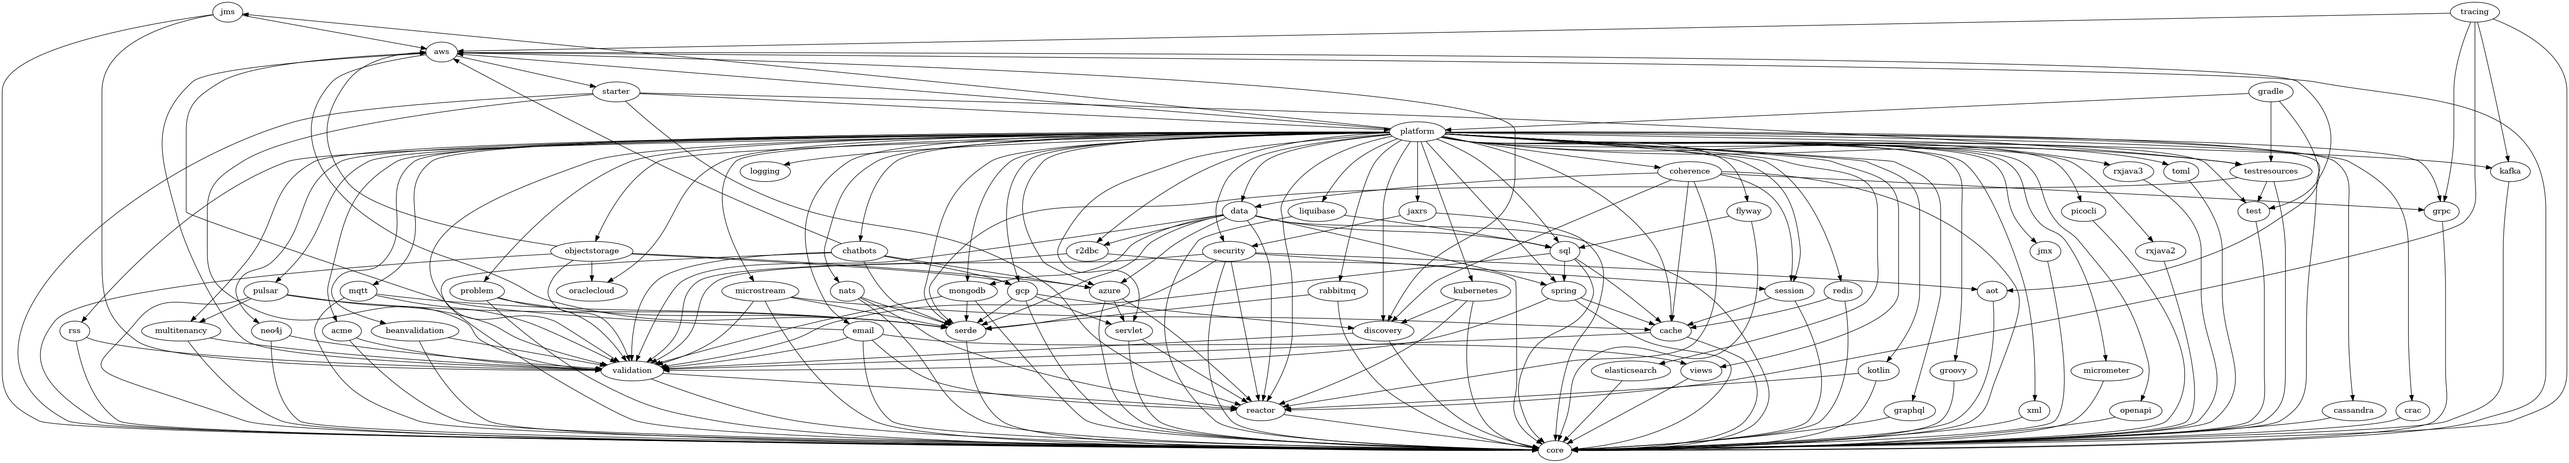
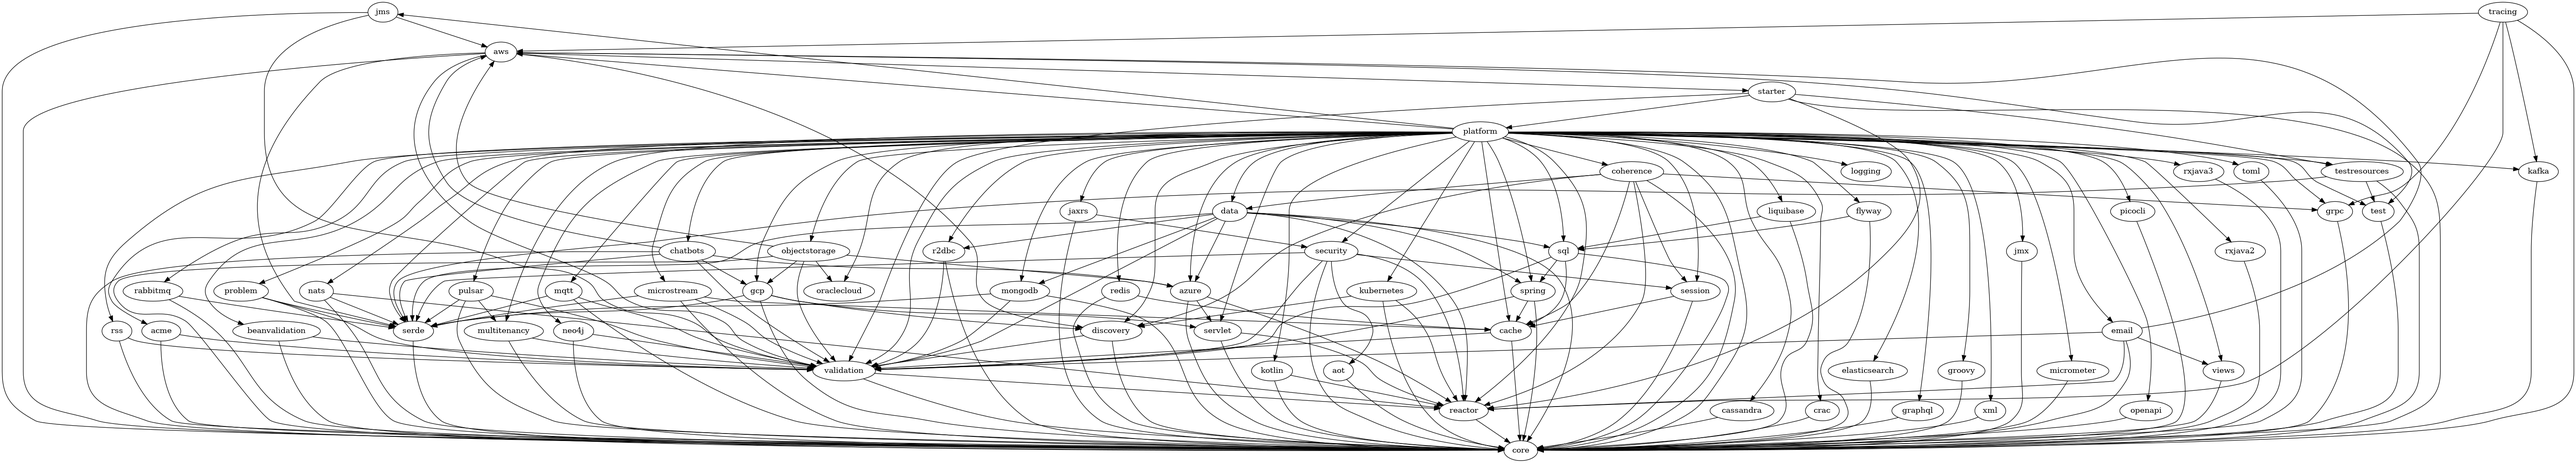
deploy: 3b2f357ef7a3afdb4ed65c1ba22d3688d425cdcc

diff --git a/index.html b/index.html
@@ -80,7 +80,7 @@
 <body>
 <div class="header">
     <img src="https://micronaut.io/wp-content/uploads/2020/11/MIcronautLogo_Horizontal.svg">
-    <div class="right">Generated at May 19, 2023, 12:22:26 PM</div>
+    <div class="right">Generated at May 19, 2023, 6:25:43 PM</div>
 </div>
 <div class="row">
     <nav>
@@ -222,13 +222,13 @@
 <TR><TD>&#128154; Settings 6.4.4</TD></TR>
 <TR><TD>&#128154; <B>Build: <FONT COLOR="darkgreen">PASSING</FONT></B></TD></TR>
 </TABLE></li>
-        <li class="item" onclick="showImage(this, 'project-graph-gradle.png')"><TABLE BORDER="0" CELLSPACING="1" CELLPADDING="1" STYLE="rounded">
-<TR><TD><B>gradle 4.0.0-SNAPSHOT</B></TD></TR>
-<TR><TD>&#10060; Status SNAPSHOT</TD></TR>
-<TR><TD>&#128154; Micronaut 4.0.0-M2</TD></TR>
-<TR><TD>&#128155; Gradle 8.1.1</TD></TR>
-<TR><TD>&#128154; Settings 6.4.4</TD></TR>
-<TR><TD>&#10060; <B>Build: <FONT COLOR="red">FAILING</FONT></B></TD></TR>
+        <li class="item" onclick="showImage(this, 'project-graph-gradleplugin.png')"><TABLE BORDER="0" CELLSPACING="1" CELLPADDING="1" STYLE="rounded">
+<TR><TD><B>gradleplugin ERROR</B></TD></TR>
+<TR><TD>&#128155; Status ERROR</TD></TR>
+<TR><TD>&#10060; Micronaut ERROR</TD></TR>
+<TR><TD>&#128155; Gradle ERROR</TD></TR>
+<TR><TD>&#128155; Settings ERROR</TD></TR>
+<TR><TD>&#128155; <B>Build: <FONT COLOR="yellow">ERROR</FONT></B></TD></TR>
 </TABLE></li>
         <li class="item" onclick="showImage(this, 'project-graph-graphql.png')"><TABLE BORDER="0" CELLSPACING="1" CELLPADDING="1" STYLE="rounded">
 <TR><TD><B>graphql 4.0.0-SNAPSHOT</B></TD></TR>
@@ -256,10 +256,10 @@
 </TABLE></li>
         <li class="item" onclick="showImage(this, 'project-graph-jaxrs.png')"><TABLE BORDER="0" CELLSPACING="1" CELLPADDING="1" STYLE="rounded">
 <TR><TD><B>jaxrs 4.0.0-SNAPSHOT</B></TD></TR>
-<TR><TD>&#128155; Status M1</TD></TR>
-<TR><TD>&#128154; Micronaut 4.0.0-M2</TD></TR>
+<TR><TD>&#128155; Status M2</TD></TR>
+<TR><TD>&#128154; Micronaut 4.0.0-M4</TD></TR>
 <TR><TD>&#128155; Gradle 8.1.1</TD></TR>
-<TR><TD>&#128155; Settings 6.4.2</TD></TR>
+<TR><TD>&#128154; Settings 6.4.4</TD></TR>
 <TR><TD>&#128154; <B>Build: <FONT COLOR="darkgreen">PASSING</FONT></B></TD></TR>
 </TABLE></li>
         <li class="item" onclick="showImage(this, 'project-graph-jms.png')"><TABLE BORDER="0" CELLSPACING="1" CELLPADDING="1" STYLE="rounded">
@@ -280,10 +280,10 @@
 </TABLE></li>
         <li class="item" onclick="showImage(this, 'project-graph-kafka.png')"><TABLE BORDER="0" CELLSPACING="1" CELLPADDING="1" STYLE="rounded">
 <TR><TD><B>kafka 5.0.0-SNAPSHOT</B></TD></TR>
-<TR><TD>&#128155; Status M2</TD></TR>
-<TR><TD>&#128154; Micronaut 4.0.0-M2</TD></TR>
+<TR><TD>&#128155; Status M3</TD></TR>
+<TR><TD>&#128154; Micronaut 4.0.0-M4</TD></TR>
 <TR><TD>&#128155; Gradle 8.1.1</TD></TR>
-<TR><TD>&#128155; Settings 6.4.2</TD></TR>
+<TR><TD>&#128154; Settings 6.4.4</TD></TR>
 <TR><TD>&#128154; <B>Build: <FONT COLOR="darkgreen">PASSING</FONT></B></TD></TR>
 </TABLE></li>
         <li class="item" onclick="showImage(this, 'project-graph-kotlin.png')"><TABLE BORDER="0" CELLSPACING="1" CELLPADDING="1" STYLE="rounded">
@@ -331,7 +331,7 @@
 <TR><TD>&#128155; Status M1</TD></TR>
 <TR><TD>&#128154; Micronaut 4.0.0-M2</TD></TR>
 <TR><TD>&#128155; Gradle 8.1.1</TD></TR>
-<TR><TD>&#128155; Settings 6.4.2</TD></TR>
+<TR><TD>&#128154; Settings 6.4.4</TD></TR>
 <TR><TD>&#128154; <B>Build: <FONT COLOR="darkgreen">PASSING</FONT></B></TD></TR>
 </TABLE></li>
         <li class="item" onclick="showImage(this, 'project-graph-mongodb.png')"><TABLE BORDER="0" CELLSPACING="1" CELLPADDING="1" STYLE="rounded">
@@ -419,7 +419,7 @@
 <TR><TD>&#128155; Status M1</TD></TR>
 <TR><TD>&#128154; Micronaut 4.0.0-M2</TD></TR>
 <TR><TD>&#128155; Gradle 8.1.1</TD></TR>
-<TR><TD>&#128155; Settings 6.4.1</TD></TR>
+<TR><TD>&#128154; Settings 6.4.4</TD></TR>
 <TR><TD>&#128154; <B>Build: <FONT COLOR="darkgreen">PASSING</FONT></B></TD></TR>
 </TABLE></li>
         <li class="item" onclick="showImage(this, 'project-graph-pulsar.png')"><TABLE BORDER="0" CELLSPACING="1" CELLPADDING="1" STYLE="rounded">
@@ -456,10 +456,10 @@
 </TABLE></li>
         <li class="item" onclick="showImage(this, 'project-graph-redis.png')"><TABLE BORDER="0" CELLSPACING="1" CELLPADDING="1" STYLE="rounded">
 <TR><TD><B>redis 6.0.0-SNAPSHOT</B></TD></TR>
-<TR><TD>&#128155; Status M2</TD></TR>
-<TR><TD>&#128154; Micronaut 4.0.0-M2</TD></TR>
+<TR><TD>&#128155; Status M3</TD></TR>
+<TR><TD>&#128154; Micronaut 4.0.0-M4</TD></TR>
 <TR><TD>&#128155; Gradle 8.1.1</TD></TR>
-<TR><TD>&#128155; Settings 6.4.2</TD></TR>
+<TR><TD>&#128154; Settings 6.4.4</TD></TR>
 <TR><TD>&#128154; <B>Build: <FONT COLOR="darkgreen">PASSING</FONT></B></TD></TR>
 </TABLE></li>
         <li class="item" onclick="showImage(this, 'project-graph-rss.png')"><TABLE BORDER="0" CELLSPACING="1" CELLPADDING="1" STYLE="rounded">
@@ -512,8 +512,8 @@
 </TABLE></li>
         <li class="item" onclick="showImage(this, 'project-graph-session.png')"><TABLE BORDER="0" CELLSPACING="1" CELLPADDING="1" STYLE="rounded">
 <TR><TD><B>session 4.0.0-SNAPSHOT</B></TD></TR>
-<TR><TD>&#128155; Status M1</TD></TR>
-<TR><TD>&#128154; Micronaut 4.0.0-M2</TD></TR>
+<TR><TD>&#128155; Status M2</TD></TR>
+<TR><TD>&#128154; Micronaut 4.0.0-M4</TD></TR>
 <TR><TD>&#128155; Gradle 8.1.1</TD></TR>
 <TR><TD>&#128154; Settings 6.4.4</TD></TR>
 <TR><TD>&#128154; <B>Build: <FONT COLOR="darkgreen">PASSING</FONT></B></TD></TR>
@@ -544,10 +544,10 @@
 </TABLE></li>
         <li class="item" onclick="showImage(this, 'project-graph-test.png')"><TABLE BORDER="0" CELLSPACING="1" CELLPADDING="1" STYLE="rounded">
 <TR><TD><B>test 4.0.0-SNAPSHOT</B></TD></TR>
-<TR><TD>&#128155; Status M3</TD></TR>
-<TR><TD>&#128154; Micronaut 4.0.0-M2</TD></TR>
+<TR><TD>&#128155; Status M4</TD></TR>
+<TR><TD>&#128154; Micronaut 4.0.0-M4</TD></TR>
 <TR><TD>&#128155; Gradle 8.1.1</TD></TR>
-<TR><TD>&#128155; Settings 6.4.2</TD></TR>
+<TR><TD>&#128154; Settings 6.4.4</TD></TR>
 <TR><TD>&#128154; <B>Build: <FONT COLOR="darkgreen">PASSING</FONT></B></TD></TR>
 </TABLE></li>
         <li class="item" onclick="showImage(this, 'project-graph-testresources.png')"><TABLE BORDER="0" CELLSPACING="1" CELLPADDING="1" STYLE="rounded">
@@ -666,7 +666,7 @@
                        <img id="project-graph-gcp.png" src="project-graph-gcp.png">
                    </div>
 <div class="graph">       
-                       <img id="project-graph-gradle.png" src="project-graph-gradle.png">
+                       <img id="project-graph-gradleplugin.png" src="project-graph-gradleplugin.png">
                    </div>
 <div class="graph">       
                        <img id="project-graph-graphql.png" src="project-graph-graphql.png">
